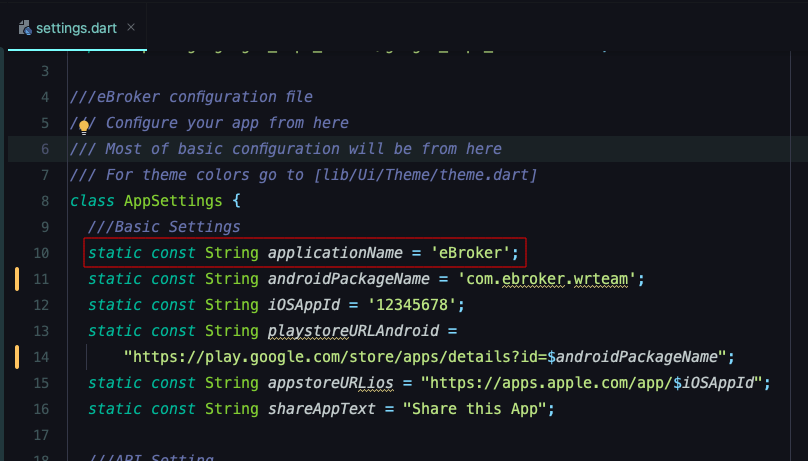
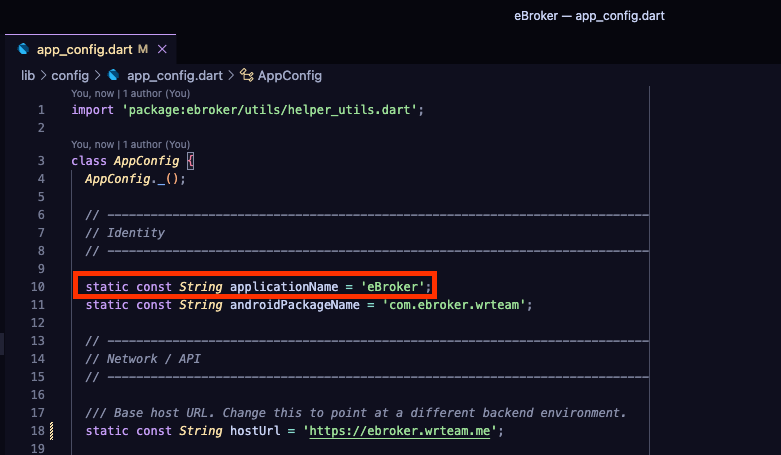
docs: update documentation to reflect configuration migration from settings.dart to AppConfig class

Changed region(s): [[0.0, 0.0308, 0.9526, 1.0], [0.6453, 0.0308, 0.8604, 0.0615], [0.1229, 0.9846, 0.2766, 1.0]]

diff --git a/docs/app/connect-admin-panel.md b/docs/app/connect-admin-panel.md
@@ -16,21 +16,21 @@ Before connecting your app to the admin panel, make sure you have:
 ## Configuring Connection Settings
 
 1. Open your app project
-2. Navigate to the `settings.dart` file
-3. Locate the connection settings section:
+2. Navigate to the `lib/config/app_config.dart` file
+3. Locate the connection settings section inside the `AppConfig` class:
 
 ![Connect Admin](/images/app/connect_admin.png)
 
 4. Update the following settings:
-   - **Host URL**: Your admin panel's URL (e.g., `https://yourdomain.com/`)
-   - **API Data Load Limit**: Number of items to load per request (default: 20)
-   - **Max Category Load**: Number of categories to show on the home screen (default: 5)
+   - **Host URL** (`AppConfig.hostUrl`): Your admin panel's URL (e.g., `https://yourdomain.com/`)
+   - **API Data Load Limit** (`AppConfig.apiDataLoadLimit`): Number of items to load per request (default: 10)
+   - **Max Category Load** (`AppConfig.maxCategoryShowLengthInHomeScreen`): Number of categories to show on the home screen (default: 5)
 
 ## Understanding the Settings
 
-- **Host URL**: This is the base URL for all API requests. Make sure it includes the protocol (`http://` or `https://`) and ends with a slash `/`.
-- **API Data Load Limit**: This setting controls pagination. A higher number loads more data at once but may slow down the app.
-- **Max Category Load**: Categories beyond this number will be accessible via the "Show More" button on the home screen.
+- **Host URL** (`AppConfig.hostUrl`): This is the base URL for all API requests. Make sure it includes the protocol (`http://` or `https://`) and ends with a slash `/`.
+- **API Data Load Limit** (`AppConfig.apiDataLoadLimit`): This setting controls pagination. A higher number loads more data at once but may slow down the app.
+- **Max Category Load** (`AppConfig.maxCategoryShowLengthInHomeScreen`): Categories beyond this number will be accessible via the "Show More" button on the home screen.
 
 ## Testing the Connection
 

diff --git a/docs/app/change-app-name.md b/docs/app/change-app-name.md
@@ -6,10 +6,10 @@ sidebar_position: 3
 
 To change your app name, follow these simple steps:
 
-## Method 1: Using settings.dart
+## Method 1: Using app_config.dart
 
-1. Navigate to `lib > settings.dart` in your project
-2. Find the variable named `applicationName="Your app name"`
+1. Navigate to `lib > config > app_config.dart` in your project
+2. Find the variable named `applicationName` inside the `AppConfig` class (e.g., `static const String applicationName = 'eBroker';`)
 3. Update the text inside the quotes with your desired app name
 
 ![App Name](/images/app/app_name.png)

diff --git a/docs/app/change-package-name.md b/docs/app/change-package-name.md
@@ -11,4 +11,4 @@ Follow the common Flutter app guide for the full package-name change procedure:
 ## eBroker-specific notes
 
 - **Do this BEFORE Firebase setup.** Firebase config is bound to your package name; changing it after Firebase is configured forces a re-download of `google-services.json` and the Firebase platform reconfiguration.
-- After running the rename command, also update `androidPackageName` in `lib/settings.dart` so app code references the new ID.
+- After running the rename command, also update `androidPackageName` in `lib/config/app_config.dart` (inside the `AppConfig` class) so app code references the new ID.

diff --git a/docs/app/setup-deep-link.md b/docs/app/setup-deep-link.md
@@ -13,7 +13,7 @@ Follow the common Flutter app guide for the full deep-link configuration (Androi
 Deep links in eBroker are configured in **three** places — all three must agree or links will not open the app.
 
 1. **Admin Panel** → Settings → System Settings → Deep Link Settings → set your **Schema**.
-2. **`lib/settings.dart`** → set `shareNavigationWebUrl` to your domain (web domain if you want web fallback redirect; otherwise admin panel domain).
+2. **`lib/config/app_config.dart`** → set `shareNavigationWebUrl` in the `AppConfig` class to your domain (web domain if you want web fallback redirect; otherwise admin panel domain).
 3. **Android `AndroidManifest.xml`** and **iOS `Info.plist`** → use the same schema and domain (covered in the common doc).
 
 iOS `Info.plist` snippet (schema must match Admin Panel value):

diff --git a/docs/app/update-from-old-version.md b/docs/app/update-from-old-version.md
@@ -29,7 +29,7 @@ These are every file you typically touch during an eBroker update. Each is cover
 
 | File | What changes | Doc |
 |---|---|---|
-| `lib/settings.dart` | App name, package name, host URL, deep link domain | [Change App Name](change-app-name.md), [Change Package Name](change-package-name.md), [Connect Admin Panel](connect-admin-panel.md), [Setup Deep Link](setup-deep-link.md) |
+| `lib/config/app_config.dart` | App name, package name, host URL, deep link domain | [Change App Name](change-app-name.md), [Change Package Name](change-package-name.md), [Connect Admin Panel](connect-admin-panel.md), [Setup Deep Link](setup-deep-link.md) |
 | `lib/theme.dart` | Fallback theme colors | [Theme Colors](theme-colors.md) |
 | `pubspec.yaml` | Version name + version code | [Change App Version](change-app-version.md) |
 | `android/app/src/main/AndroidManifest.xml` | Maps API key, AdMob app ID, deep link schema | [Map API Key](maps-setup.md), [Setup AdMob](setup-admob.md), [Setup Deep Link](setup-deep-link.md) |